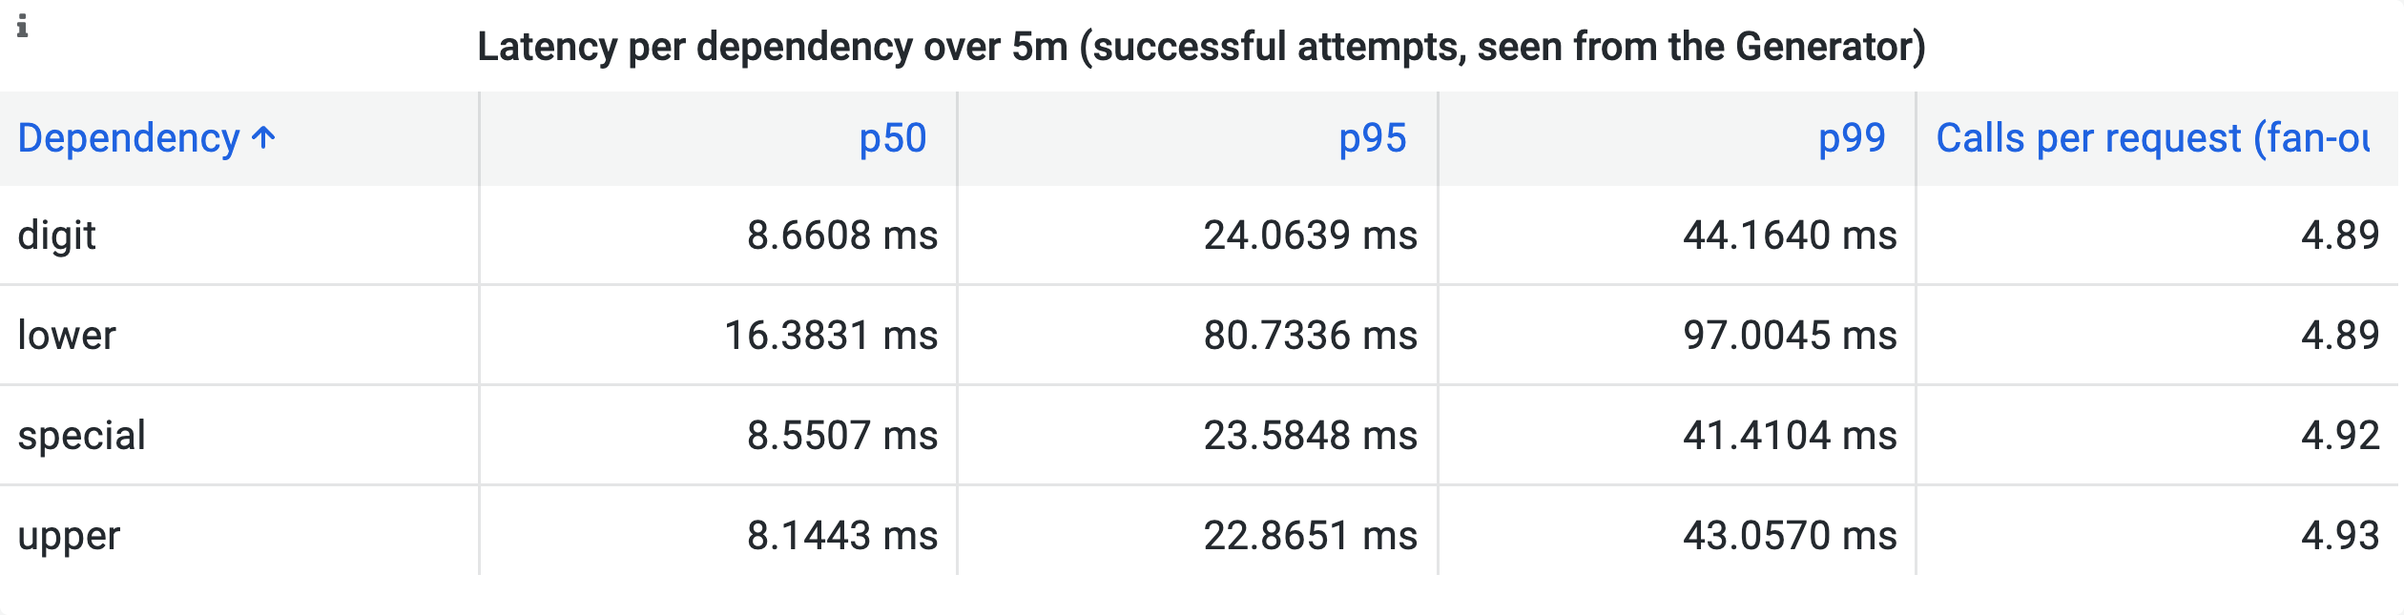
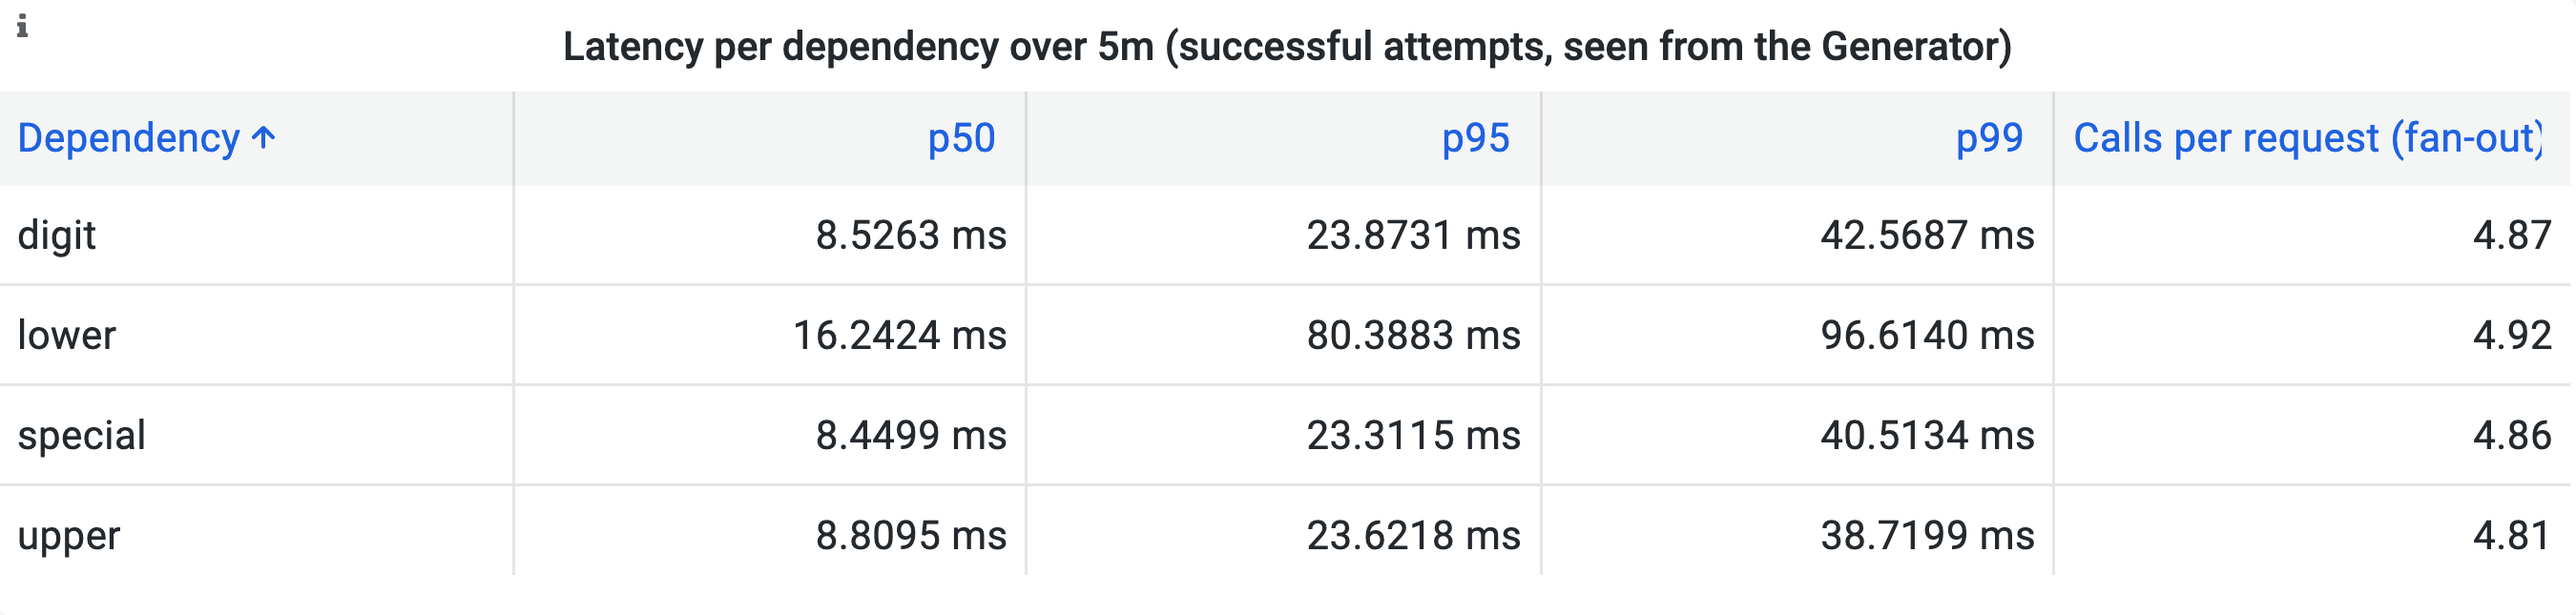
Slides y apuntes clase 11: aplicar la revision del docente sobre las slides reescritas

diff --git a/apuntes/clase11-apuntes.tex b/apuntes/clase11-apuntes.tex
@@ -26,7 +26,7 @@ Para hablar con precisión de la cadena que lleva de un defecto a una caída con
 \begin{description}
 \item[\emph{Fault} (falta):] condición que crea un estado interno incorrecto en el software. Puede deberse a un defecto latente que se dispara o a una condición no controlada en una frontera con otro sistema. \emph{Ejemplo:} tras una conmutación de la base de datos, cerrar una consulta lanza una excepción que el código no maneja, y la conexión a la base no se devuelve al pool. Nadie lo ve todavía, pero el pool pierde una conexión en cada llamada.
 \item[\emph{Error}:] comportamiento visiblemente incorrecto. \emph{Ejemplo:} los primeros llamantes del servicio de búsqueda de vuelos empiezan a recibir excepciones en lugar de resultados.
-\item[\emph{Failure} (falla):] un sistema que no responde. \emph{Ejemplo:} agotado el pool, el servicio de búsqueda de vuelos deja de responder, y con él los quioscos de \emph{check-in} que lo llaman.
+\item[\emph{Failure} (falla):] un sistema que no responde. \emph{Ejemplo:} agotado el pool, el servicio de búsqueda de vuelos deja de responder, y con él los quioscos de \emph{check-in} que lo llaman (las terminales de autoservicio de los aeropuertos en las que los pasajeros hacen el \emph{check-in} sin pasar por el mostrador).
 \end{description}
 
 \paragraph{La falla depende de quién mira.} Nygard agrega que ``Failure is in the eye of the beholder'': una computadora puede estar encendida y no responder ningún pedido.\footnote{Nygard (2018), cap.~3.} Que algo ``falló'' no es una propiedad del servidor sino del observador. Para un monitoreo que solo verifica que el proceso esté vivo o que una página de estado responda, el servidor está sano; para el usuario que no recibe respuesta, el sistema falló. En el caso de la aerolínea ocurrió exactamente esto: el monitoreo del servicio de vuelos consultaba solo una página de estado y lo mostraba sano mientras todos sus hilos estaban bloqueados.\footnote{\historiaaerolinea{} Fuente: Nygard (2018), cap.~2.} La consecuencia práctica es que la salud de un servicio debe medirse desde el punto de vista de quien lo usa (la clase 10 lo llamó medir desde el cliente).
@@ -495,7 +495,7 @@ Un sistema con más patrones no es superior a uno con menos: ``Count of patterns
 
 Este caso real, relatado por quien hizo el análisis posterior, recorre la cadena completa de una falla en cascada y permite ubicar en cada eslabón el mecanismo que la habría cortado.\footnote{Nygard (2018), cap.~2 (el relato) y cap.~3, \emph{Stopping Crack Propagation} (los puntos de corte).}
 
-\paragraph{El sistema.} Una aerolínea estaba migrando a una arquitectura orientada a servicios. Un servicio central, al que el relato llama CF (\emph{core facilities}), resolvía la búsqueda de vuelos: dada una fecha, una ciudad, un aeropuerto o un número de vuelo, devolvía la lista de vuelos. Lo usaban los quioscos de \emph{check-in} de los aeropuertos, el sistema de respuesta telefónica automática y las aplicaciones que alimentaban a los sitios de venta de pasajes. CF se había diseñado para alta disponibilidad: un clúster de servidores de aplicación detrás de balanceadores redundantes, una base de datos Oracle en un clúster con conmutación automática, hardware redundante en todos los niveles y hasta un segundo centro de datos. No tenía ninguno de los puntos únicos de falla habituales. Sus clientes lo invocaban mediante llamadas remotas Java (EJB sobre RMI\footnote{RMI (\emph{Remote Method Invocation}) es el mecanismo de RPC de Java: permite invocar un método de un objeto que vive en otra máquina como si fuera local (ver clase 02 sobre RPC). Sus llamadas, por defecto, no tienen \emph{timeout}: el llamante puede quedar esperando indefinidamente. Nygard (2018), caps.~2 y 3.}).
+\paragraph{El sistema.} Una aerolínea estaba migrando a una arquitectura orientada a servicios. Un servicio central, al que el relato llama CF (\emph{core facilities}), resolvía la búsqueda de vuelos: dada una fecha, una ciudad, un aeropuerto o un número de vuelo, devolvía la lista de vuelos. Lo usaban los quioscos de \emph{check-in} de los aeropuertos (las terminales de autoservicio en las que los pasajeros hacen el \emph{check-in} por su cuenta), el sistema de respuesta telefónica automática y las aplicaciones que alimentaban a los sitios de venta de pasajes. CF se había diseñado para alta disponibilidad: un clúster de servidores de aplicación detrás de balanceadores redundantes, una base de datos Oracle en un clúster con conmutación automática, hardware redundante en todos los niveles y hasta un segundo centro de datos. No tenía ninguno de los puntos únicos de falla habituales. Sus clientes lo invocaban mediante llamadas remotas Java (EJB sobre RMI\footnote{RMI (\emph{Remote Method Invocation}) es el mecanismo de RPC de Java: permite invocar un método de un objeto que vive en otra máquina como si fuera local (ver clase 02 sobre RPC). Sus llamadas, por defecto, no tienen \emph{timeout}: el llamante puede quedar esperando indefinidamente. Nygard (2018), caps.~2 y 3.}).
 
 \paragraph{La noche del cambio.} Un jueves, cerca de las 23\,h (hora del Pacífico), el equipo de operaciones ejecutó una conmutación manual de la base de datos de CF de un servidor al otro para hacer mantenimiento de rutina; era un procedimiento que habían hecho decenas de veces. El monitoreo mostró a las aplicaciones disponibles durante todo el cambio, y cerca de las 0:30 se lo dio por terminado con éxito.
 
